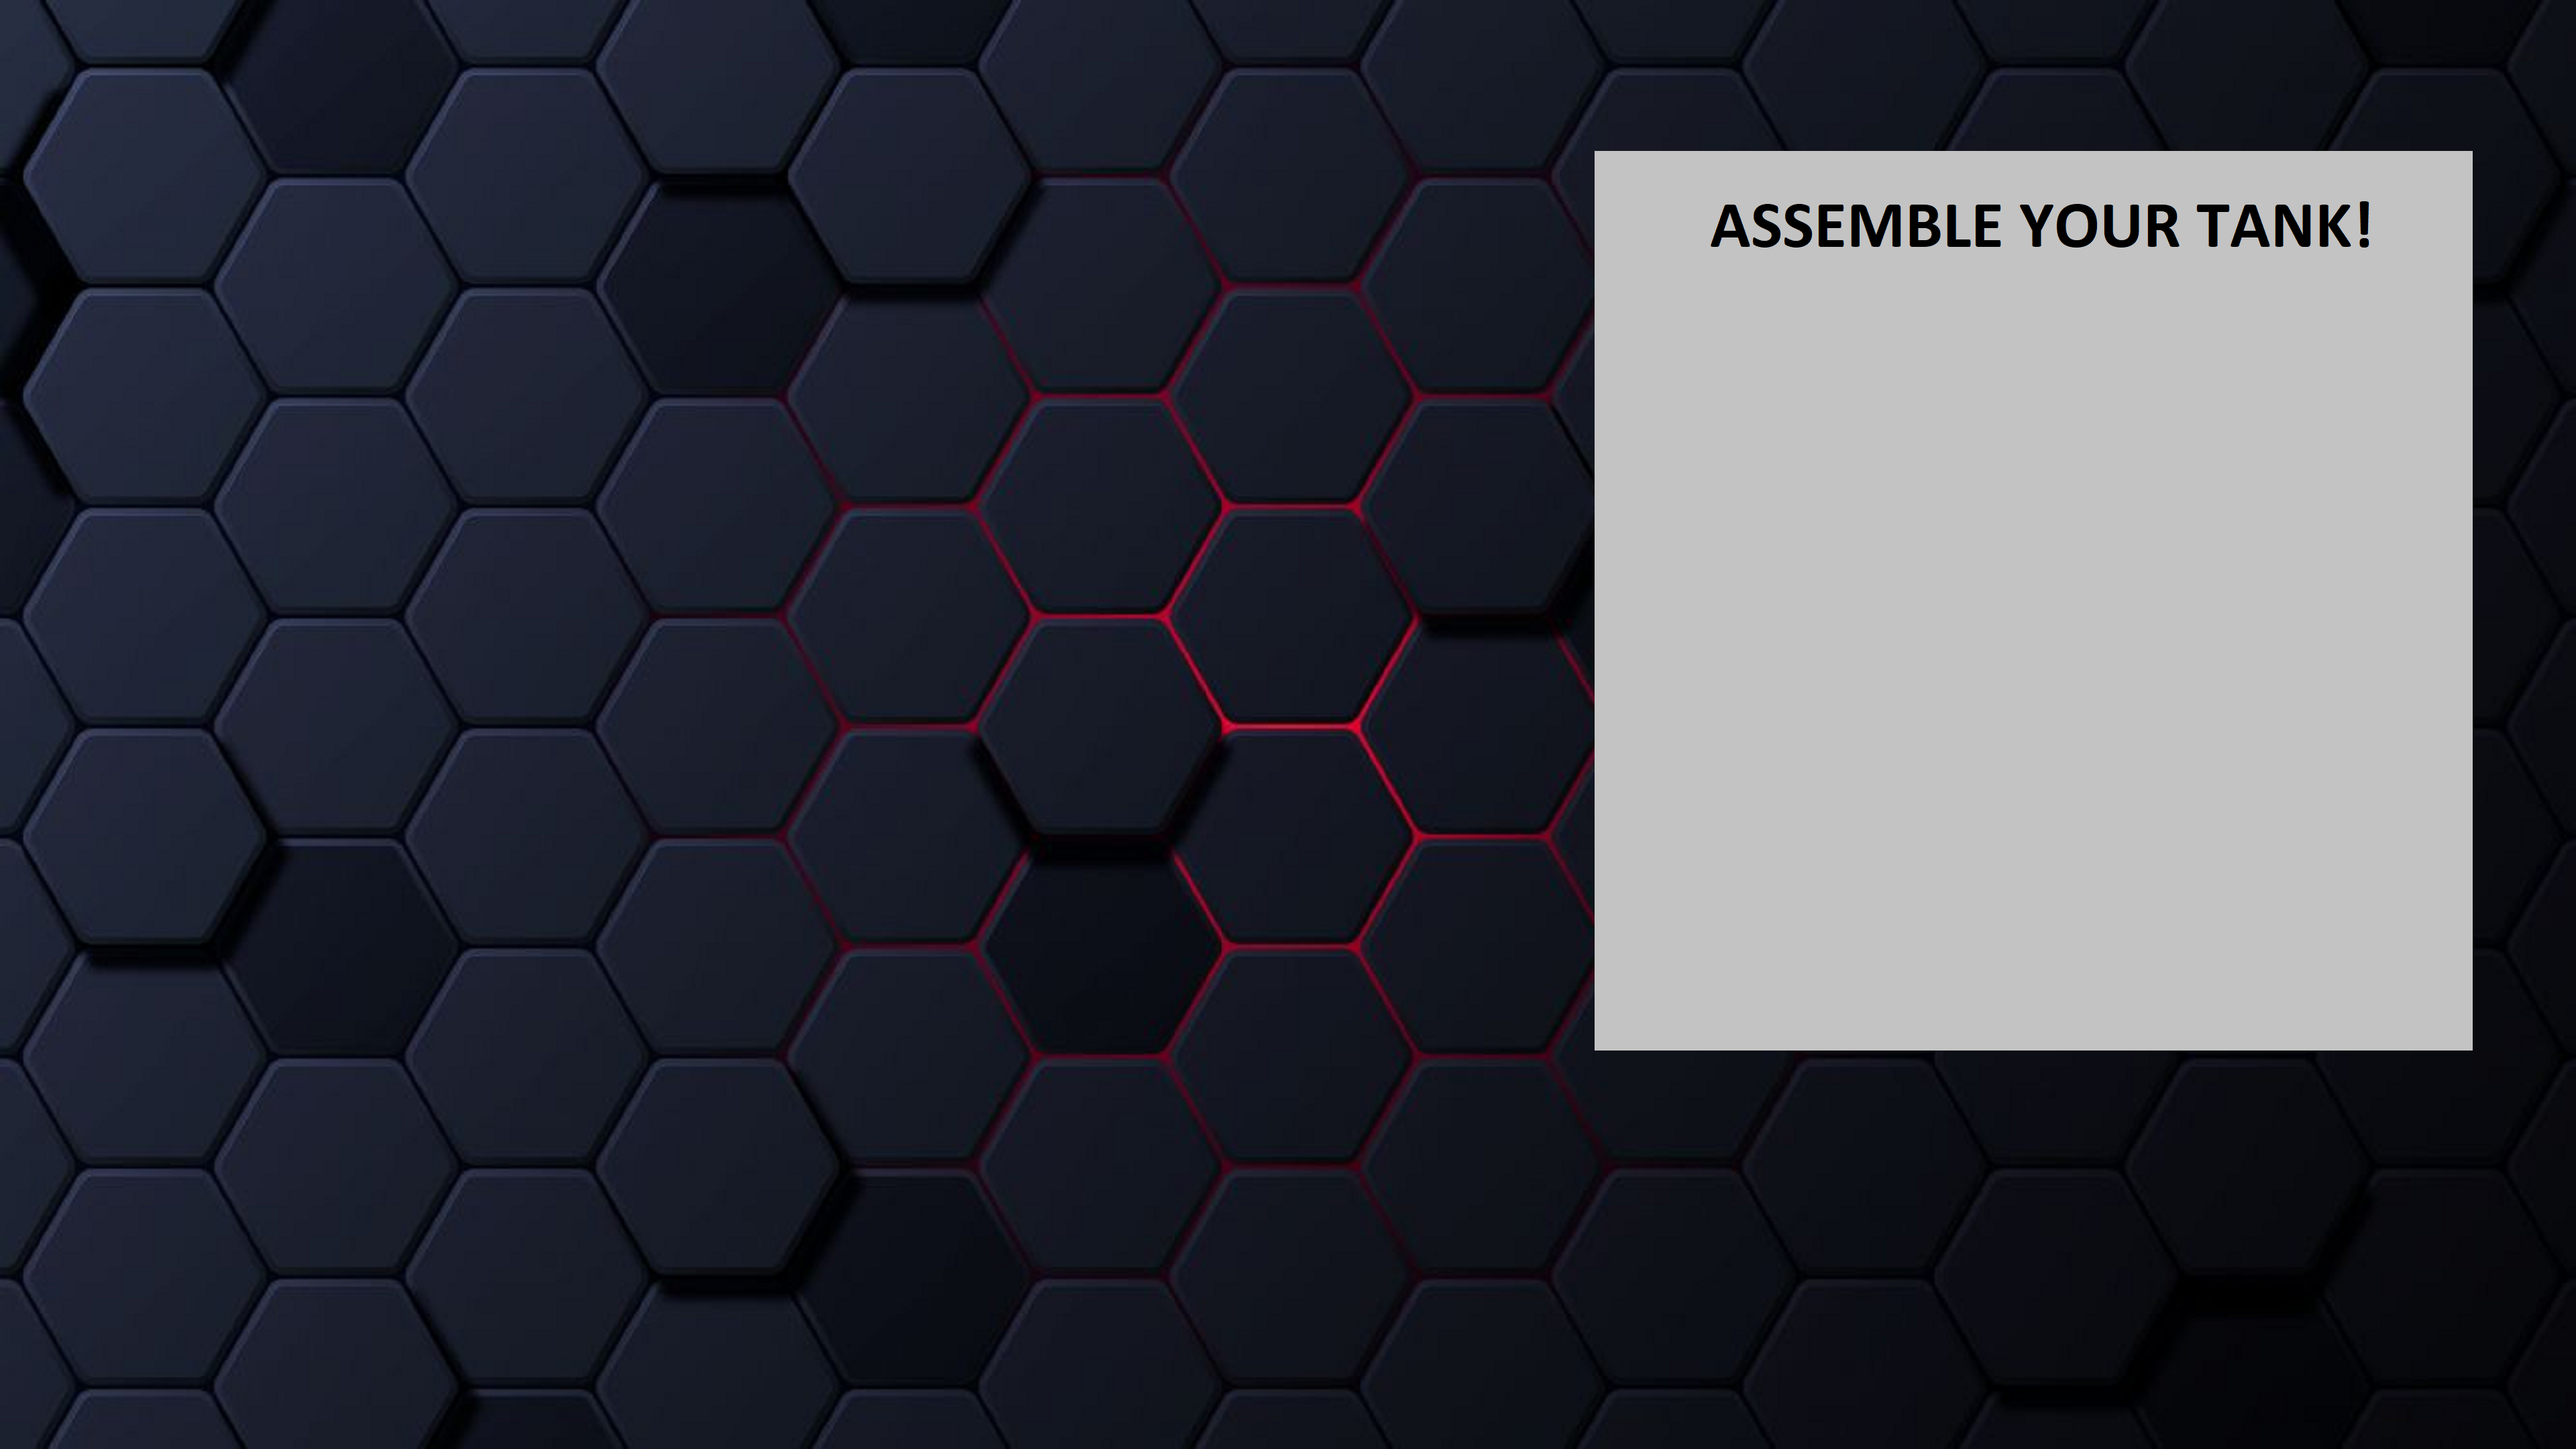
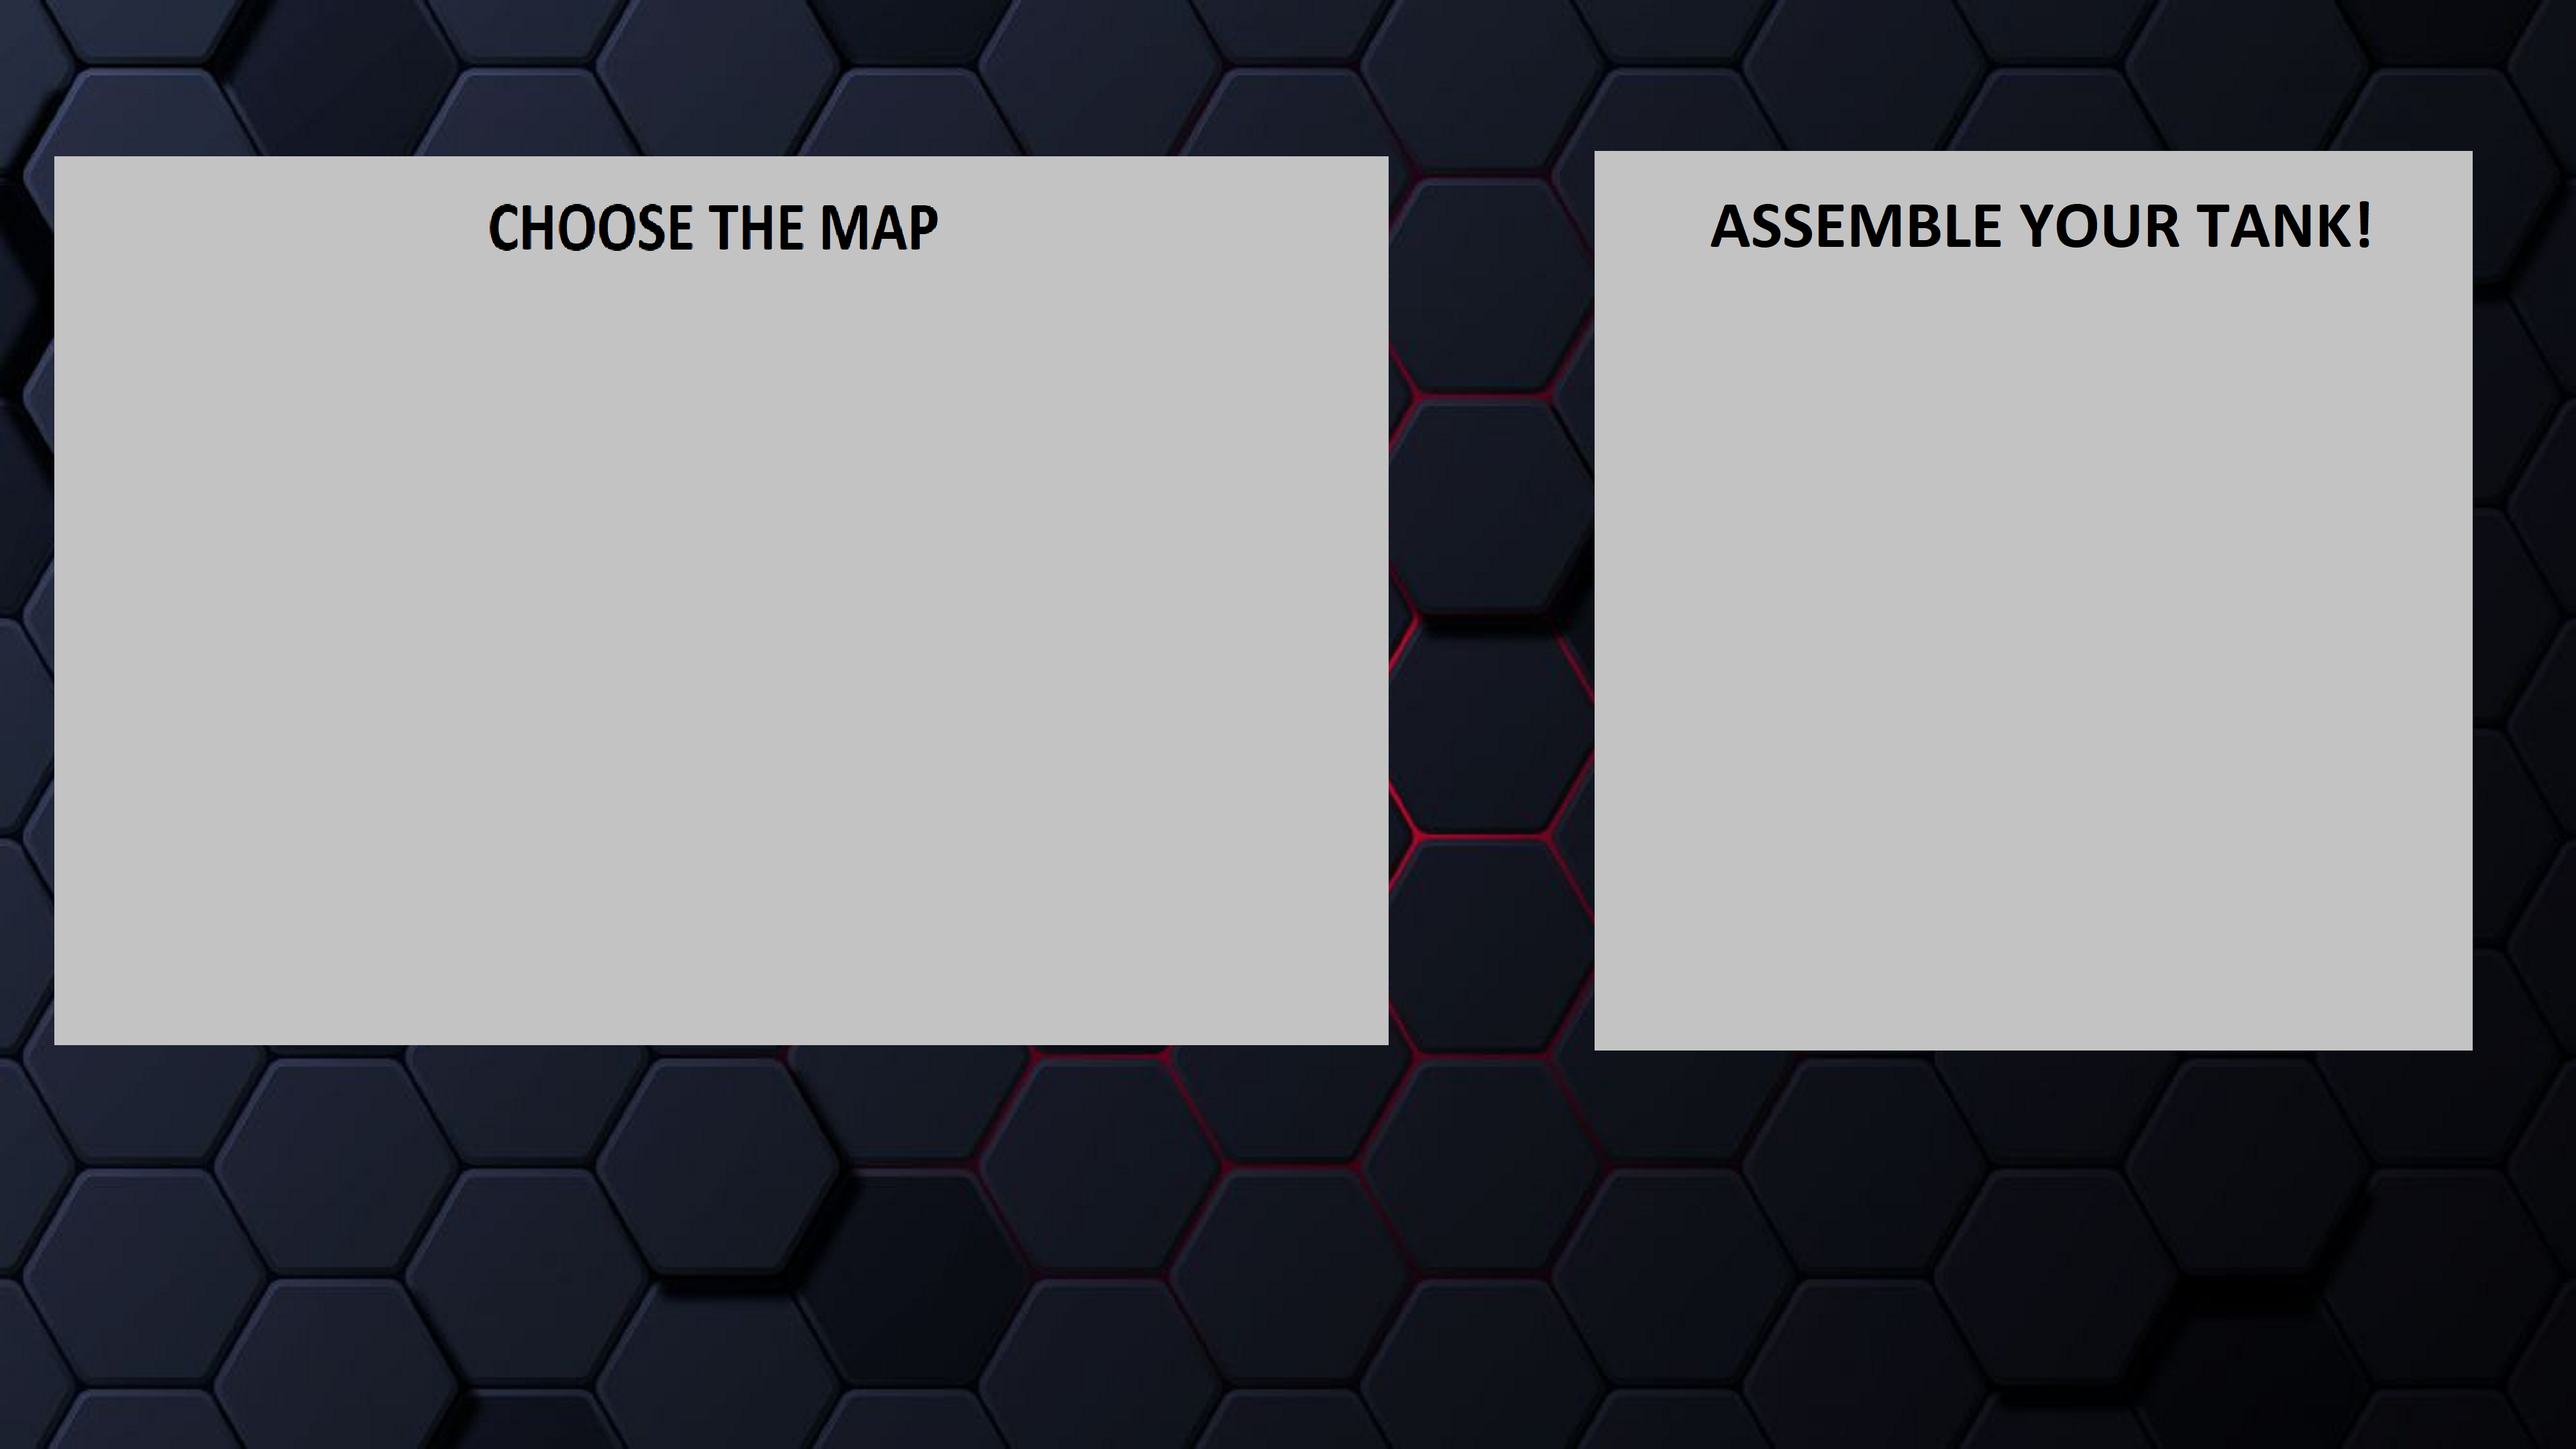
Button for map choose

diff --git a/ButtonSpawner.cpp b/ButtonSpawner.cpp
@@ -83,6 +83,36 @@ Entity* ButtonSpawner::Spawn(Position position, int subType) {
 			click_to_add->setButtonId(play_button_id);
 			break;
 
+		case map_2: // map_2 button
+			img.loadFromFile("Image/map_2_.png");
+			graph_to_add->setAliveImage(img);
+			break;
+
+		case map_3: // map_3 button
+			img.loadFromFile("Image/map_3_.png");
+			graph_to_add->setAliveImage(img);
+			break;
+
+		case map_4: // map_4 button
+			img.loadFromFile("Image/map_4_.png");
+			graph_to_add->setAliveImage(img);
+			break;
+
+		case map_2_contoured: // map_2 button
+			img.loadFromFile("Image/map_2_contoured.png");
+			graph_to_add->setAliveImage(img);
+			break;
+
+		case map_3_contoured: // map_3 button
+			img.loadFromFile("Image/map_3_contoured.png");
+			graph_to_add->setAliveImage(img);
+			break;
+
+		case map_4_contoured: // map_4 button
+			img.loadFromFile("Image/map_4_contoured.png");
+			graph_to_add->setAliveImage(img);
+			break;
+
 		default: break;
 	}
 

diff --git a/SpawnID.h b/SpawnID.h
@@ -21,7 +21,15 @@ inline const int tank_hull_1 = 106;
 inline const int tank_hull_2 = 107;
 inline const int tank_turret_1 = 108;
 inline const int tank_turret_2 = 109;
+
 inline const int play = 110;
+
+inline const int map_2 = 111;
+inline const int map_3 = 112;
+inline const int map_4 = 113;
+inline const int map_2_contoured = 114;
+inline const int map_3_contoured = 115;
+inline const int map_4_contoured = 116;
 
 //Banner determinant
 inline const int main_banner = 201;

diff --git a/BannerSpawner.cpp b/BannerSpawner.cpp
@@ -46,7 +46,7 @@ Entity* BannerSpawner::Spawn(Position position, int subType) {
 
 	case single_banner: // single menu banner
 		graph_to_add = new GraphicsComponent();
-		img.loadFromFile("Image/client_banner.png");
+		img.loadFromFile("Image/host_banner.png");
 		graph_to_add->setAliveImage(img);
 		//music_to_add->setMusic(std::string("Sound/music_track_1.ogg"));
 		break;
